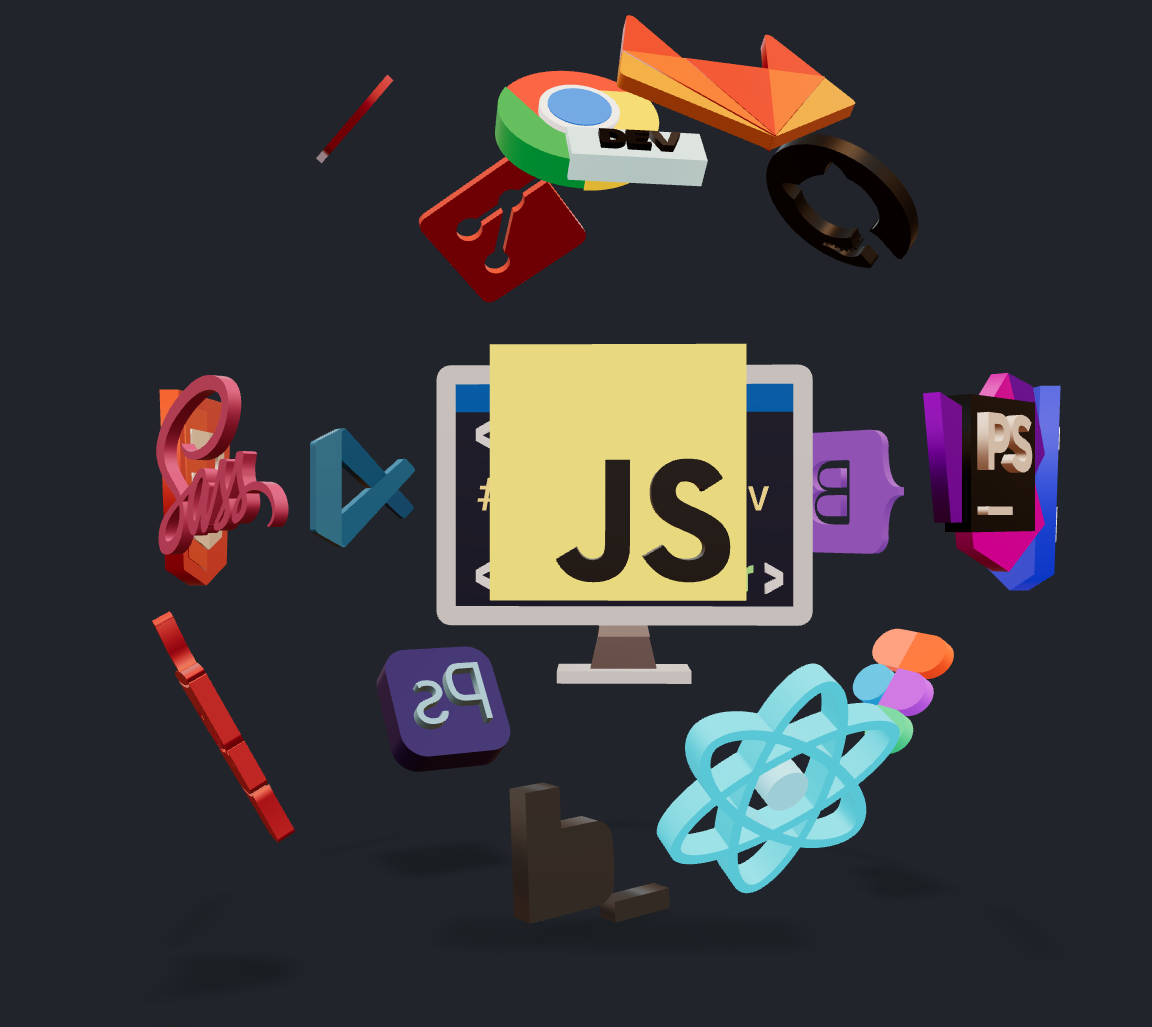
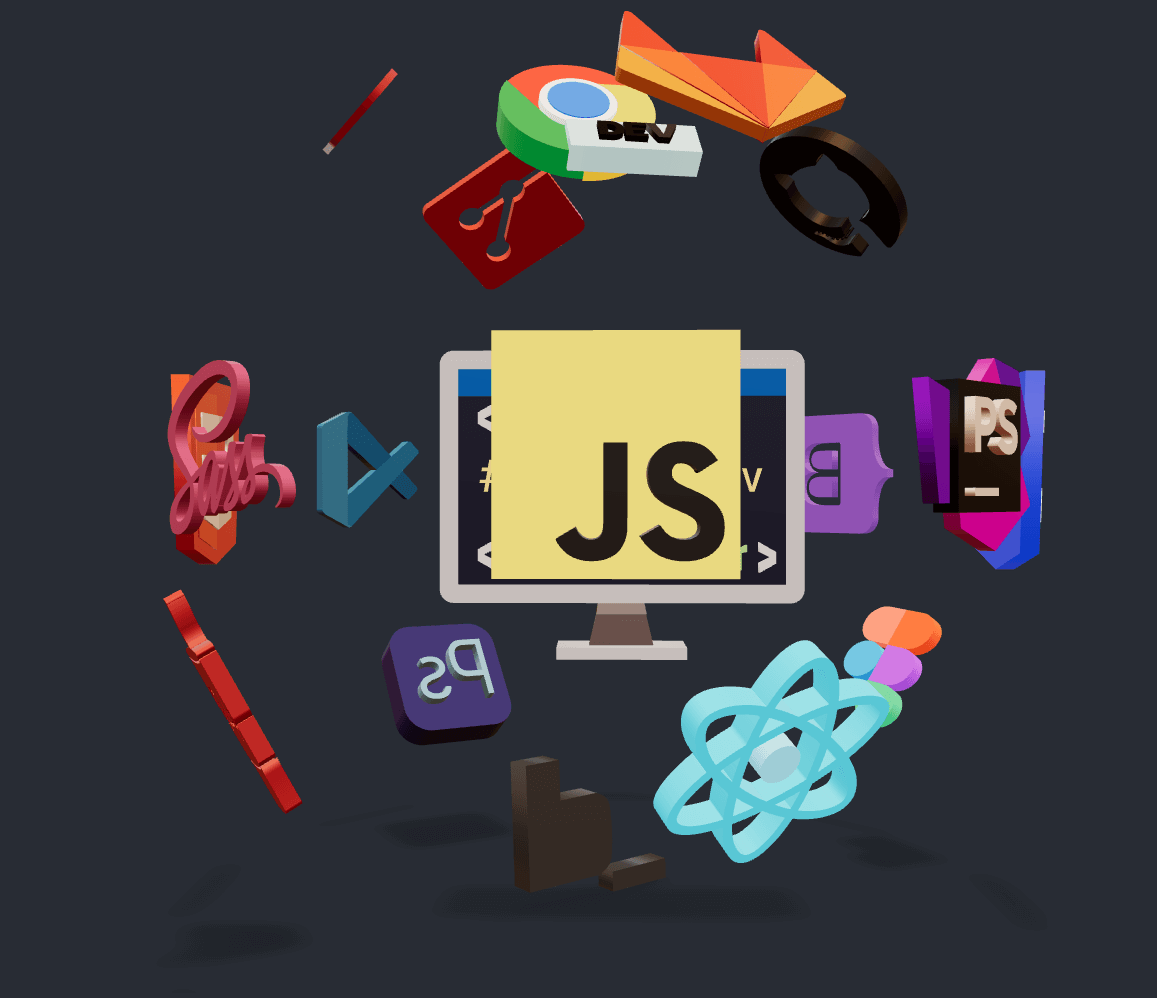
add light poster

diff --git a/src/components/Model/Model.jsx b/src/components/Model/Model.jsx
@@ -1,12 +1,16 @@
-import React, { useState } from "react";
+import React, { useState, useContext } from "react";
 import gbl from "./portfolio.glb";
-import poster from "./poster2.png";
+import poster from "./poster.png";
+import posterLight from "./poster-light.jpg";
 import light from "./light.hdr";
 import styles from "./Model.module.css";
 import Toggle from "../Toggle/Toggle";
+import { ThemeSwitch } from "../../context";
 
 export default function Model({ slideTo }) {
 	const [pointToggle, setPointToggle] = useState(false);
+	const { themeSwitch } = useContext(ThemeSwitch);
+
 	const hotSpotButtons = [
 		{
 			position: "-6.45m 6.46m 5.85m",
@@ -128,7 +132,7 @@ export default function Model({ slideTo }) {
 				camera-controls
 				disable-zoom
 				quick-look
-				poster={poster}
+				poster={themeSwitch ? poster : posterLight}
 				shadow-intensity='0.55'
 				environment-image={light}
 				shadow-softness='0.8'

diff --git a/src/App.jsx b/src/App.jsx
@@ -18,6 +18,7 @@ function App() {
 		<ThemeSwitch.Provider
 			value={{
 				setThemeSwitch,
+				themeSwitch,
 			}}>
 			<BrowserRouter>
 				<div className={`App ${themeSwitch ? "" : "light"}`} onContextMenu={(e) => e.preventDefault()}>
